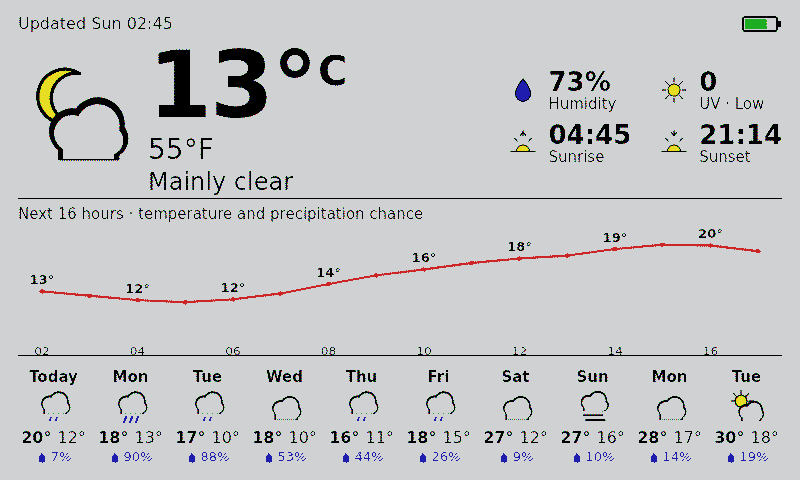
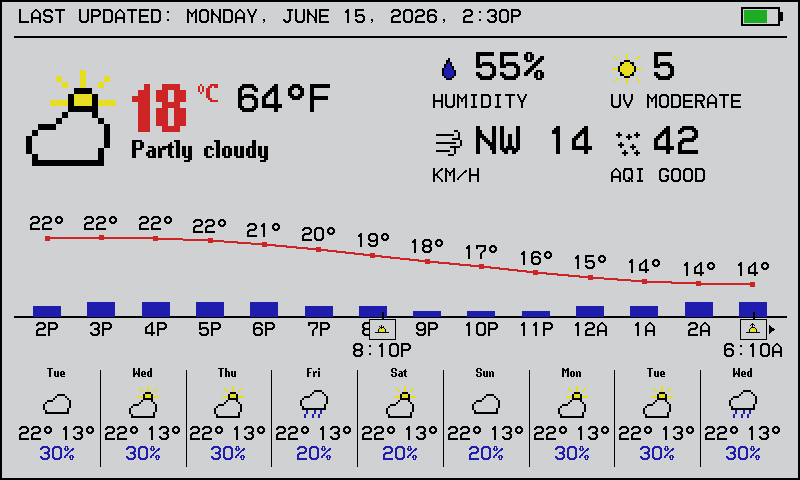
docs: tighten README and refresh screenshots
Trim the README to the essentials and update both screenshots to the current
design (PixelPurl/Home Video fonts, wind + air-quality stats, sun-event notches).

- regenerate docs/screenshot.png and docs/screenshot-eink.png from the
  partly-cloudy preset.
- Hardware: note the tested RPi 1 B+ / PiSugar 3 Plus combo but that any
  Pi+PiSugar works; mark the Inky panel required; drop the redundant SD-card row.
- Assembly: drop the flash/timezone step (rpi-imager handles it).
- Install: stop enumerating install.sh's steps; link to it instead, and drop the
  config-editing note (the installer prints it).
- drop the Configuration and "How it works" sections (cycle folded into the
  intro) and the Google style-guide mention; consolidate logs/maintenance into
  Usage.

diff --git a/README.md b/README.md
@@ -1,52 +1,47 @@
 # WeatherDisplay
 
-A battery-powered e-ink weather station for the Raspberry Pi. It wakes itself
-every few hours, fetches the forecast from [Open-Meteo](https://open-meteo.com),
-renders a clean dashboard, paints it onto a 6-colour e-ink panel, and powers
-itself back off to sip battery.
+A battery-powered e-ink weather station for the Raspberry Pi. A PiSugar RTC
+wakes it every few hours; it reads the battery, fetches the forecast from
+[Open-Meteo](https://open-meteo.com), draws an 800×480 dashboard with Pillow,
+paints it onto a 6-colour e-ink panel, schedules the next wake-up, and powers
+off to sip battery.
 
 ![WeatherDisplay screenshot](docs/screenshot.png)
 
-Current conditions (°C **and** °F), humidity, UV index and sunrise/sunset; a
-16-hour temperature + precipitation chart; and a 10-day strip of min/max and
-rain-chance chips. The last-update time and a battery gauge sit in the header
-(the gauge turns red below 20%). If an update fails, the previous screen is kept
-and an error banner explains what went wrong.
+The dashboard shows current conditions in °C and °F, a temperature/precipitation
+chart, and a multi-day strip, with a battery gauge that turns red when low. If an
+update fails, the last good screen is kept under an error banner.
 
 > [![Made primarily by AI](docs/made-primarily-by-ai.svg)](https://ailabels.org/#made-primarily-by-ai)
 
 ## Hardware
 
-| Part                                                     | Notes                                                                                              |
-| -------------------------------------------------------- | -------------------------------------------------------------------------------------------------- |
-| Raspberry Pi Zero 2 W                                    | Any 40-pin Pi works; the Zero 2 W is the low-power target.                                         |
-| Pimoroni Inky Impression 7.3" (2025, Spectra 6 / PIM773) | 800×480, 6-colour e-ink.                                                                           |
-| PiSugar 3 Plus                                           | Battery + RTC that powers the Pi on/off on a schedule.                                             |
-| microSD card                                             | Raspberry Pi OS — 64-bit on 64-bit-capable boards; 32-bit (armhf) on ARMv7 boards like the Pi 2 B. |
+Tested on a **Raspberry Pi 1 Model B+** with a **PiSugar 3 Plus**, but any
+Raspberry Pi + PiSugar combination should work. The e-ink panel is the one fixed
+part.
+
+| Part                                                     | Notes                                                                 |
+| -------------------------------------------------------- | --------------------------------------------------------------------- |
+| Raspberry Pi                                             | Any model with a 40-pin header.                                       |
+| Pimoroni Inky Impression 7.3" (2025, Spectra 6 / PIM773) | 800×480, 6-colour e-ink — **required**.                               |
+| PiSugar 3 Plus                                           | Battery + RTC that powers the Pi on/off on a schedule; any PiSugar works. |
 
 ### Assembly
 
-1. **Flash Raspberry Pi OS** and complete first boot, networking and SSH. Use
-   64-bit on 64-bit-capable boards; on ARMv7 boards like the Pi 2 B (which can't
-   run 64-bit) use the 32-bit/armhf image. Boards without onboard WiFi (e.g. the
-   Pi 2 B) need Ethernet or a USB WiFi dongle. Set the correct **timezone**
-   (`sudo raspi-config` → Localisation) — the wake schedule and sunrise/sunset
-   rely on it.
-2. **Attach the PiSugar 3 Plus** to the back of the Pi and connect the battery.
-   Follow Pimoroni/PiSugar's guide:
-   <https://github.com/PiSugar/PiSugar/wiki/PiSugar-3-series>. Keep the PiSugar
-   **hardware power switch ON** — the RTC needs it on to power the Pi back up.
-3. **Install the PiSugar power manager** (provides the `pisugar-server` the app
+1. **Attach the PiSugar** to the back of the Pi and connect the battery, per
+   [PiSugar's guide](https://github.com/PiSugar/PiSugar/wiki/PiSugar-3-series).
+   Keep its **hardware power switch ON** — the RTC needs it to power the Pi back
+   up.
+2. **Install the PiSugar power manager** (provides the `pisugar-server` the app
    talks to):
    ```bash
    curl https://cdn.pisugar.com/release/pisugar-power-manager.sh | sudo bash
    ```
-   See <https://docs.pisugar.com/docs/product-wiki/battery/pisugar-power-manager>.
-4. **Seat the Inky Impression** on the 40-pin header (it comes fully assembled,
-   no soldering). Pimoroni's getting-started guide:
-   <https://learn.pimoroni.com/article/getting-started-with-inky-impression>.
+3. **Seat the Inky Impression** on the 40-pin header (no soldering). See
+   [Pimoroni's guide](https://learn.pimoroni.com/article/getting-started-with-inky-impression).
 
-> The correct setup would have the e-ink display connected to the 40 pins of your Pi, and the Pi connected to the PiSugar behind it
+> The e-ink display connects to the Pi's 40-pin header, and the Pi sits on the
+> PiSugar behind it.
 
 ## Software install
 
@@ -58,121 +53,60 @@ cd ~/WeatherDisplay
 ./install.sh
 ```
 
-`install.sh` is **idempotent** — re-run it any time. It will:
-
-- enable the **SPI** bus (needed by the Inky) and the `spi0-0cs` overlay,
-- install **fonts**, the OS **Python 3.13+** (`python3` + `python3-venv`),
-  **numpy** and **Pillow** (`python3-numpy` + `python3-pil`), and a small build
-  toolchain via apt — the heavy binary deps come prebuilt so nothing slow is
-  compiled on the Pi,
-- ensure ~1 GB of **swap** (headroom for any native pip build on low-RAM Pis
-  like the 512 MB Zero 2 W),
-- create a **virtualenv** from the newest installed **Python ≥ 3.13**, with
-  `--system-site-packages` so it sees the apt numpy/Pillow, and install
-  WeatherDisplay (with the `[pi]` hardware extra),
-- create **`config.toml`** from the example,
-- check that **`pisugar-server`** is reachable, and
-- install + enable the **systemd service**.
-
-Each step checks whether it is already done and prints an actionable error with
-a suggested fix if something goes wrong.
-
-After it finishes, **edit your settings**:
-
-```bash
-nano config.toml      # set latitude, longitude, timezone
-```
-
-## Configuration
-
-`config.toml` is a flat TOML file (see [`config.example.toml`](config.example.toml)
-for the documented version). Key settings:
-
-| Key                     | Meaning                                                  |
-| ----------------------- | -------------------------------------------------------- |
-| `latitude`, `longitude` | Location for the forecast.                               |
-| `timezone`              | IANA name, e.g. `Europe/London`.                         |
-| `primary_unit`          | `metric` (°C large) or `imperial` (°F large).            |
-| `saturation`            | E-ink colour saturation, `0.0`–`1.0`.                    |
-| `chart_hours`           | Hours in the temperature/precip chart (1–48).            |
-| `day_chips`             | Number of day chips (1–16).                              |
-| `wake_interval_hours`   | How often it wakes and updates.                          |
-| `auto_shutdown`         | Power off after each update (set `false` while testing). |
+It's idempotent — re-run it any time. It enables SPI, installs dependencies,
+sets up the systemd service, and tells you what to edit when it finishes. See
+[`install.sh`](install.sh) for details.
 
 ## Usage
 
-The systemd service runs automatically on each boot (the PiSugar provides the
-"every N hours"). To run an update by hand:
+The systemd service runs on each boot (the PiSugar provides the "every N
+hours"). To run an update by hand:
 
 ```bash
 .venv/bin/weatherdisplay --config config.toml update
 ```
 
-While bringing it up, set `auto_shutdown = false` so it does not power off, and
-watch the logs (see below). Re-enable it when you are happy.
-
-### Logs
-
-The service logs to the **systemd journal**:
+While bringing it up, set `auto_shutdown = false` in `config.toml` so it doesn't
+power off, and watch the journal:
 
 ```bash
 journalctl -u weatherdisplay -f
 ```
 
-Set `verbose = true` in the config for DEBUG-level detail.
-
-### Maintenance / staying awake
-
 Because the device powers off after each update, create a sentinel file to keep
-it awake (so you can SSH in) — it is checked at the end of each update:
+it awake for SSH:
 
 ```bash
 sudo touch /boot/firmware/weatherdisplay-stayawake   # skip auto-shutdown
-sudo rm    /boot/firmware/weatherdisplay-stayawake    # resume normal operation
+sudo rm    /boot/firmware/weatherdisplay-stayawake   # resume normal operation
 ```
 
 ## Dev mode (design without a Raspberry Pi)
 
-On any machine with Python 3.13+ you can iterate on the design without a Pi:
+On any machine with Python 3.13+:
 
 ```bash
 pip install -e ".[dev]"
 weatherdisplay --config config.toml dev
 ```
 
-Open <http://localhost:8080>. It shows the **rendered panel image** as the
-faithful 6-colour e-ink simulation. Buttons switch between **weather presets**
-(rainy, snowy, hot, cold, …) or a **live** fetch; a battery field previews the
-gauge (red below 20%); and you can **drag-and-drop a `.ttf`** onto the Title or
-Body target to hot-swap the font. The server restarts on code edits and the
-image refreshes on its own, so changes to the renderer, icons, fonts or presets
-show up immediately.
+Open <http://localhost:8080>. It shows the rendered panel as a faithful 6-colour
+e-ink simulation, with buttons to switch between weather presets or a live fetch,
+a battery field, and drag-and-drop `.ttf` font hot-swapping. The page refreshes
+on code and asset changes.
 
 ![e-ink simulation](docs/screenshot-eink.png)
 
 ## Development
 
 ```bash
-ruff check . && ruff format --check .   # lint + format (Google style, 80 col)
+ruff check . && ruff format --check .   # lint + format
 pyrefly check                           # type-check
 pytest                                  # tests
 ```
 
-The code follows the
-[Google Python Style Guide](https://google.github.io/styleguide/pyguide.html).
-The hardware-only `inky` dependency is isolated in the `[pi]` extra, so
-everything except the final panel push runs and is tested on a normal machine.
-
-## How it works
-
-```
-PiSugar RTC powers on  ->  systemd runs `weatherdisplay update`
-   -> read battery (PiSugar TCP :8423)
-   -> fetch forecast (Open-Meteo JSON)
-   -> draw the 800×480 image directly with Pillow (pixel fonts + pixel-art icons)
-   -> push to Inky (or, on error, overlay a banner on the last good screen)
-   -> schedule next PiSugar wake-up  ->  power off
-```
+The hardware-only `inky` dependency lives in the `[pi]` extra, so everything
+except the final panel push runs and is tested on a normal machine.
 
 ## License
 
